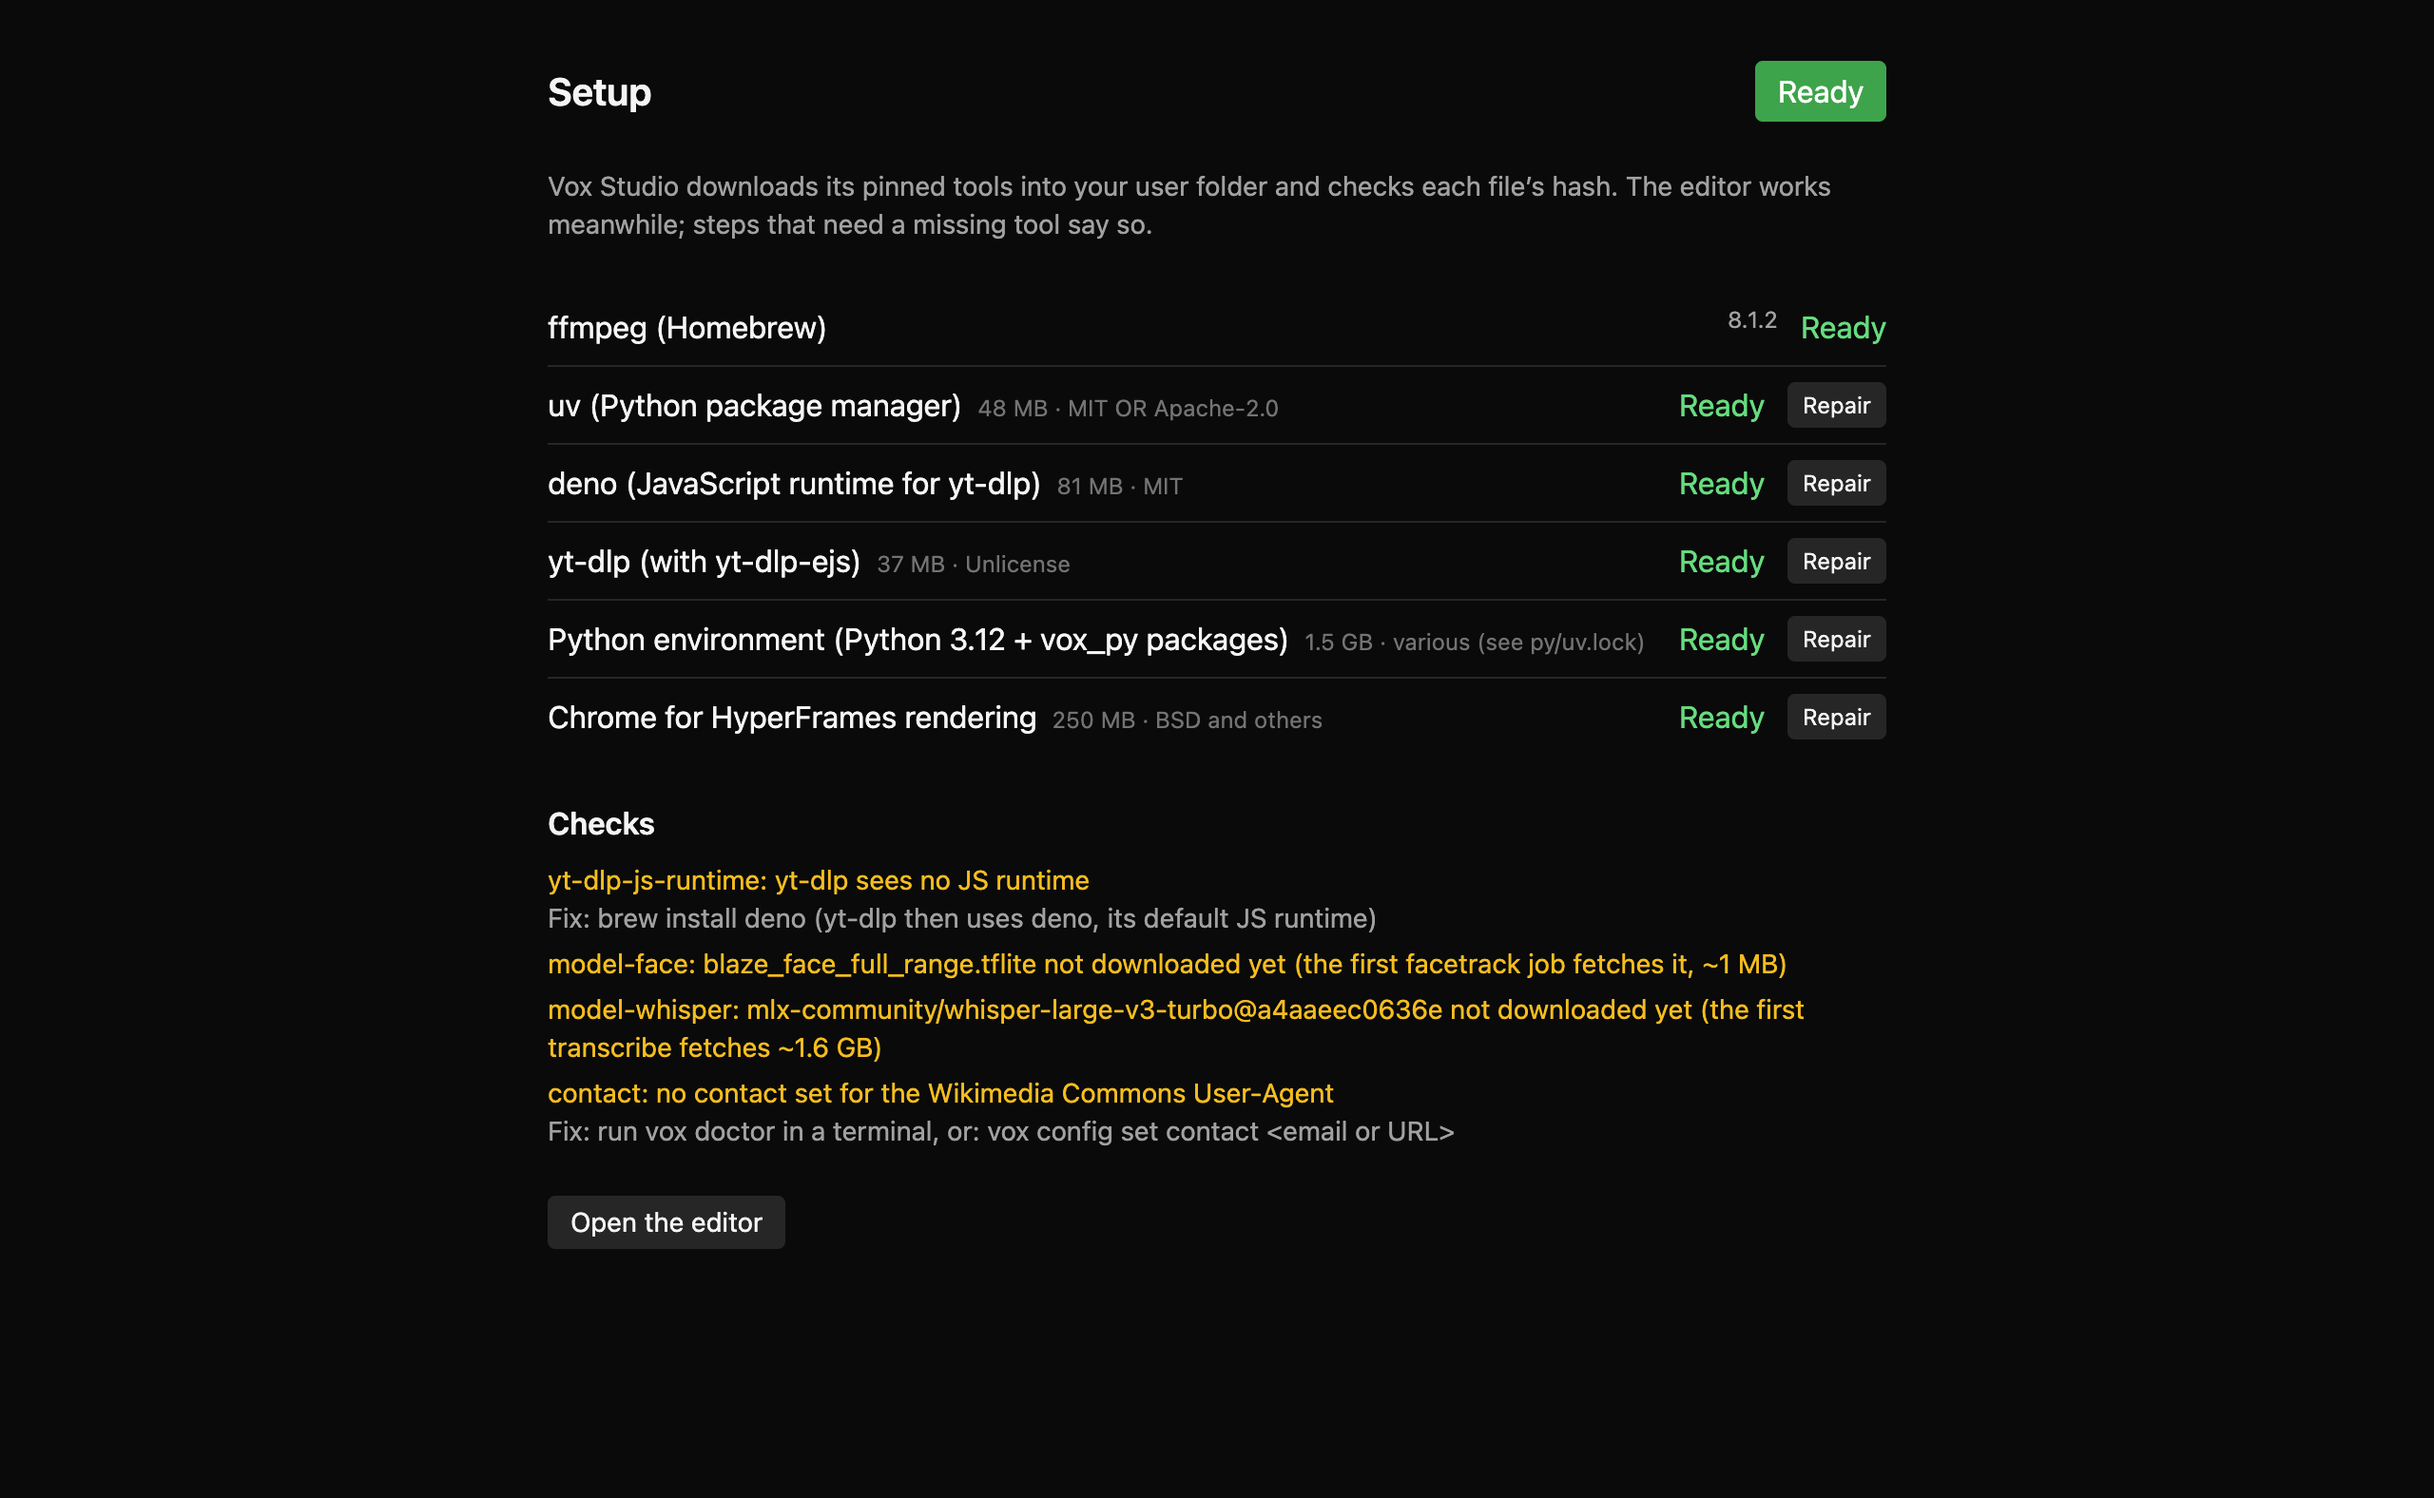
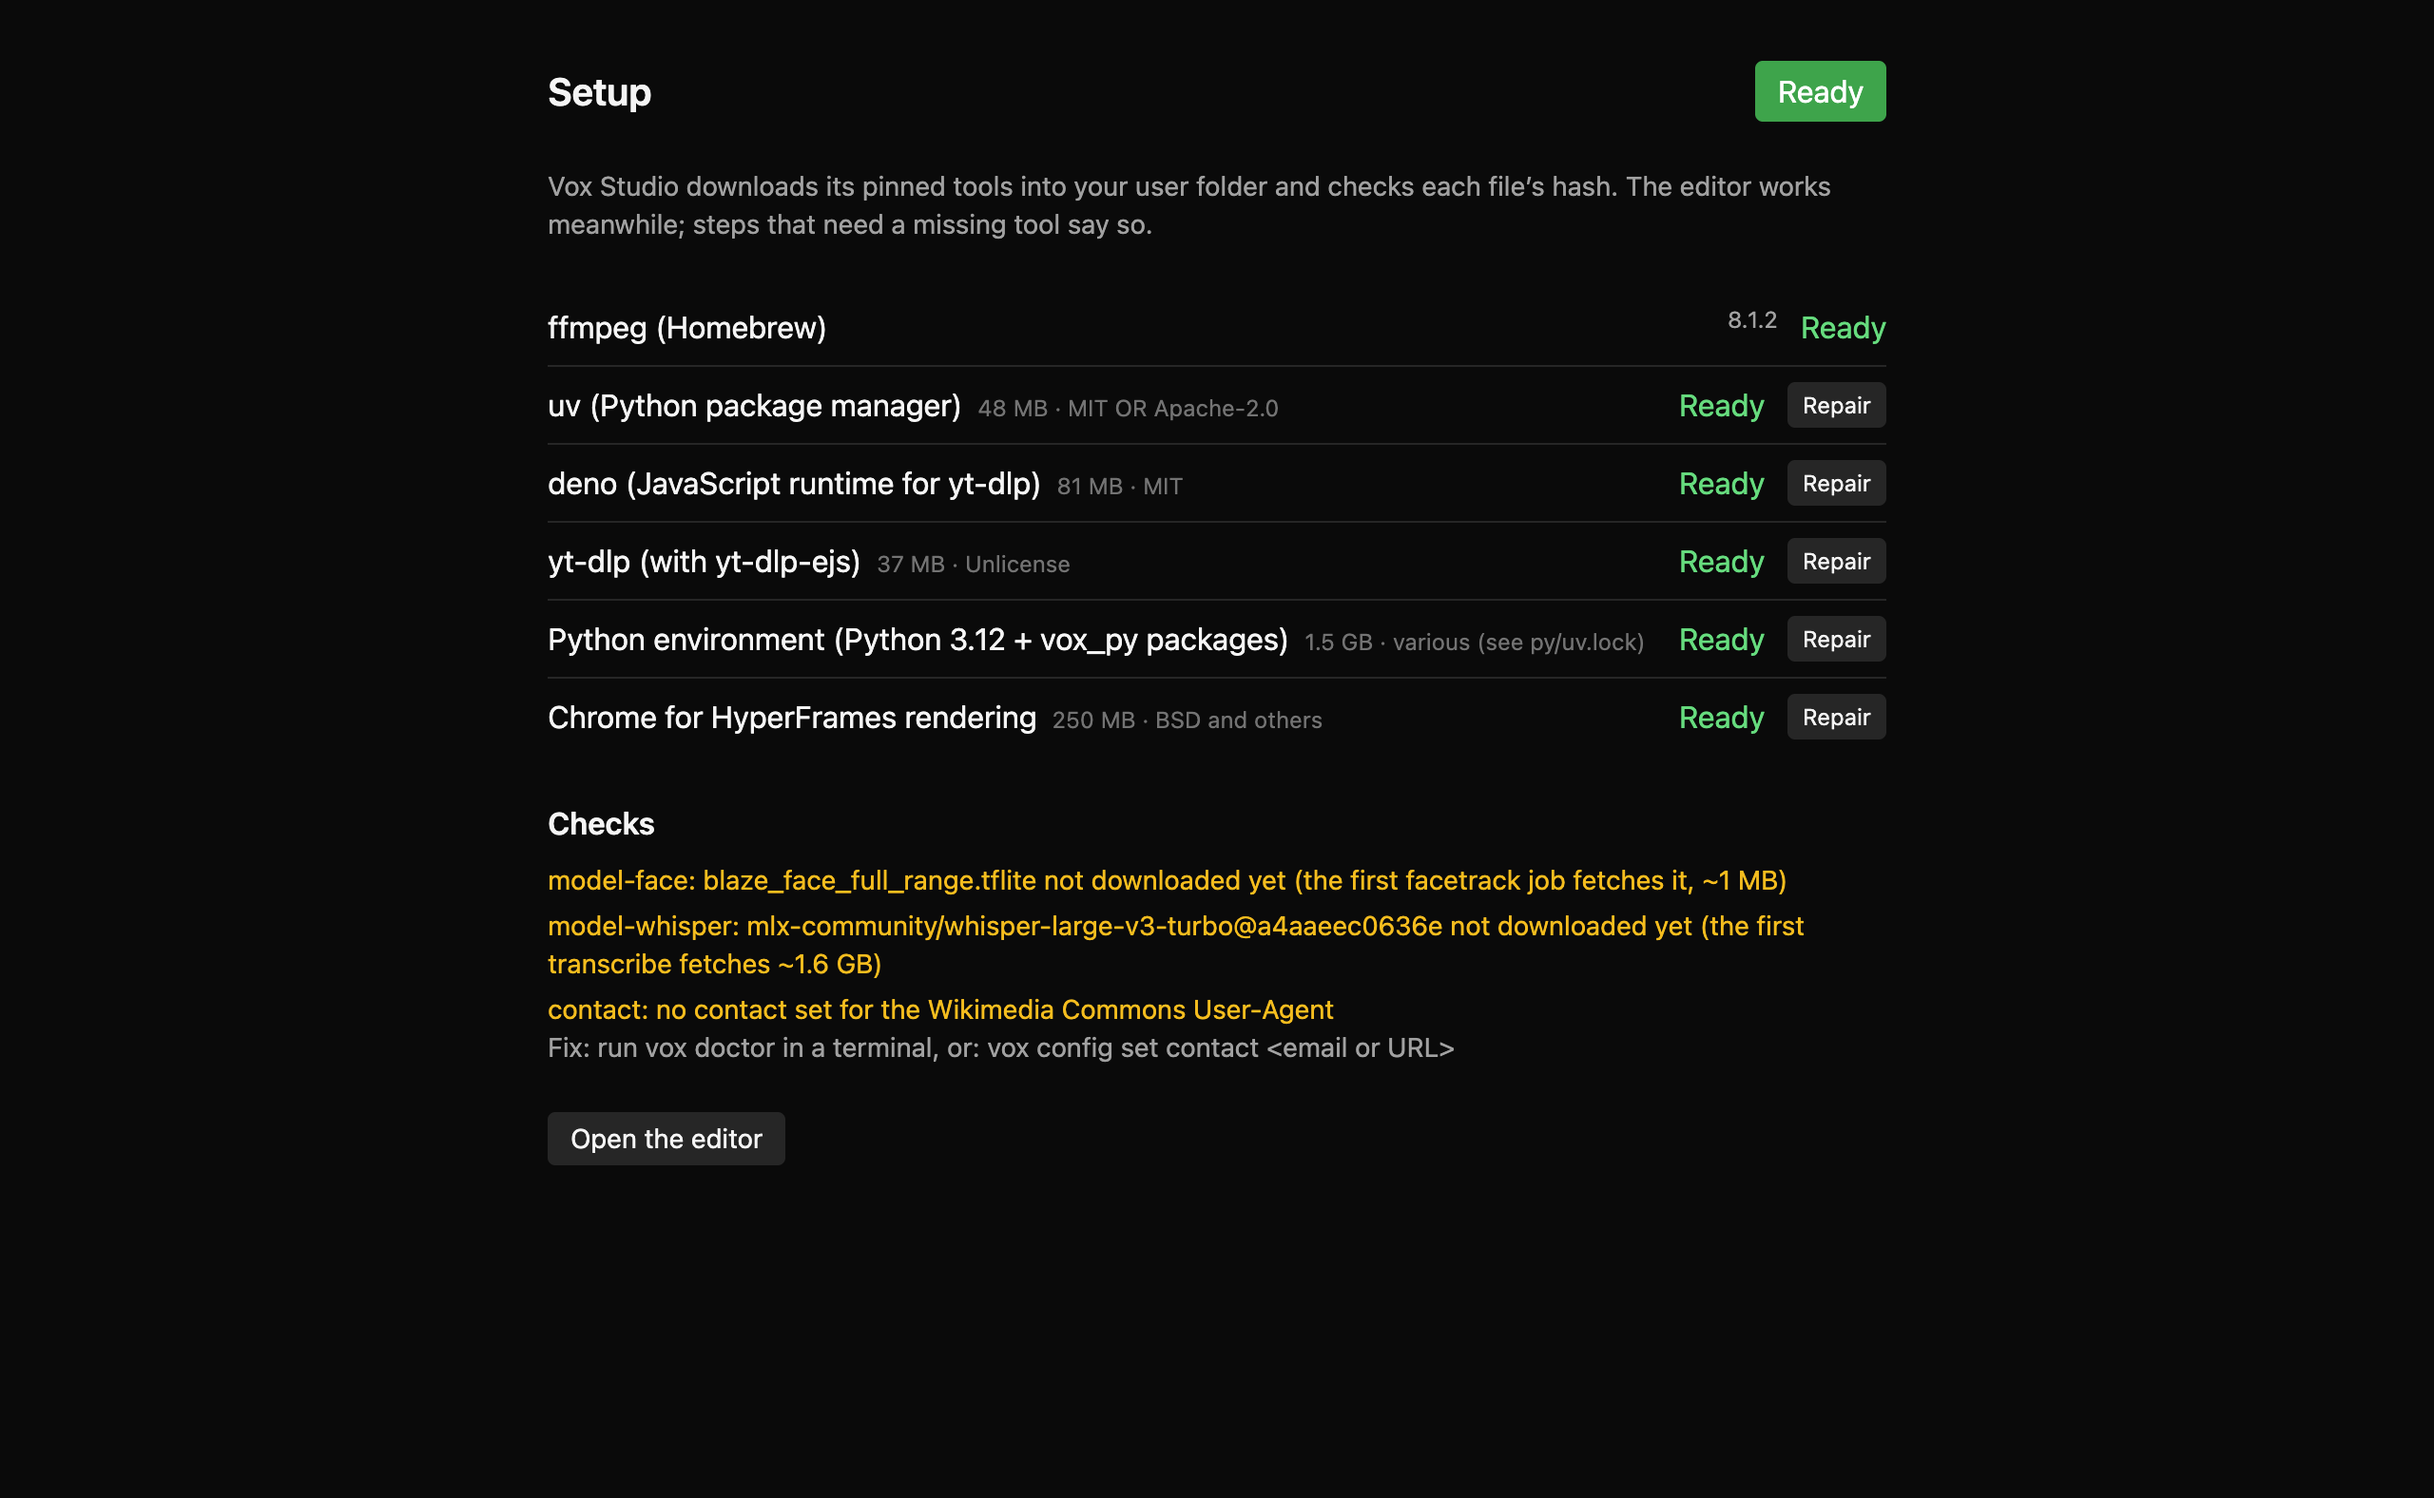
phase-09: verify after merging main (search hygiene test, clean-install probe, evidence), phase log

Changed region(s): [[0.2188, 0.5596, 0.75, 0.8395]]

diff --git a/apps/desktop/test/clean-install.slow.test.ts b/apps/desktop/test/clean-install.slow.test.ts
@@ -113,7 +113,9 @@ describe('clean install from the quarantined .dmg (D-16)', () => {
             new Promise<string>((r) => setTimeout(() => r('status: no answer in 60 s'), 60_000)),
           ]),
         );
-        rec('setup not ready', `${probe}\n${a.stderr().slice(-3000)}`);
+        // what the doctor is still waiting on (child processes under the temp folder)
+        const procs = spawnSync('/usr/bin/pgrep', ['-fl', root], { encoding: 'utf8' }).stdout;
+        rec('setup not ready', `${probe}\n${procs}\n${a.stderr().slice(-3000)}`);
         throw e;
       });
       for (const id of ['uv', 'deno', 'yt-dlp', 'python-env', 'chrome', 'ffmpeg'])

diff --git a/packages/engine/test/geo/search.test.ts b/packages/engine/test/geo/search.test.ts
@@ -106,6 +106,7 @@ describe('module hygiene', () => {
   test('search.ts stays pure: it imports nothing from errors.ts or api.ts (phase 03 wires it)', () => {
     const src = readFileSync(new URL('../../src/geo/search.ts', import.meta.url), 'utf8');
     const imports = [...src.matchAll(/^import .* from '([^']+)'/gm)].map((m) => m[1]);
-    expect(imports).toEqual(['node:fs']);
+    // resources.ts (packaged data folder, phase 09) imports only node builtins
+    expect(imports).toEqual(['node:fs', 'node:path', '../resources.ts']);
   });
 });

diff --git a/plan/log/phase-09.md b/plan/log/phase-09.md
@@ -1,22 +1,98 @@
 # Phase 09 — App: first-run setup + `.dmg`
 
-Status: in progress (started 2026-10-11 15:07), branch `phase/09-app-setup-dmg`, worktree `.worktrees/phase-09`
+| Field | Value |
+|---|---|
+| Status | done (optional MANUAL STEPS 7 and 9b open; they do not block merge) |
+| Started · Finished | 2026-10-11 15:07 · 2026-10-11 17:25 |
+| Model | Opus 5.5 · token-budget run (one agent, no subagents) |
+| Machine | Apple M5, macOS 27.0.1 |
+| Branch | phase/09-app-setup-dmg |
 
-## Plan (phase run)
-Token-budget run: one agent, no subagents; the step-7 review is a self-review (token budget).
-1. Engine: resource dirs for packaged builds (data, vox runtime, node module base) + `vox doctor`
-   lock-hash check; CLI `self-test --json`, `--version`, resource lookup when bundled.
-2. Setup wiring in the engine host: `setup.status/install/updateYtDlp`, `setup.progress`, Chrome
-   delegate (bundled HyperFrames CLI), `<tools>/bin` links, launch-time py-env resync, doctor →
-   "Ready", update check on launch (repo `aliefauzan/open-editor`).
-3. Setup screen + doctor view + update banner (renderer); menu "Install `vox` command".
-4. Packaging: CLI + engine-host bundles, resources (R1 table), bundled uv (pinned, verified),
-   fuses (S27), drop default_app.asar, size.
-5. Slow tests: packaging (self-test, fuses, S31 bundle hash), clean-install (quarantine, spctl,
-   ffmpeg-missing view, fake brew + fixture components → Ready), install-command.
-6. README install + clone sections; review; verify; log; merge.
-Test order: setup handlers → stage table → doctor lock hash → self-test → install-command →
-renderer setup view → packaging → clean-install.
+## Pre-check
+Prerequisites 05 and 08 are [x] in PROGRESS. The early steps (D-19, `early/s1-setup-modules`, below) were merged. Electron 44.7.0, electron-builder 26.15.3, pnpm 12, uv 0.11.19 (pinned).
+
+## Plan summary
+1. Engine: resource dirs for packaged builds (data, vox runtime, node module base, py project), `vox doctor` lock-hash check; CLI `self-test --json` and resource lookup when bundled.
+2. Engine host: `setup.status/install/updateYtDlp`, `setup.progress`, Chrome delegate (bundled HyperFrames CLI), `<tools>/bin` links, launch-time py-env resync, background doctor, "Ready", update check on launch.
+3. Renderer: setup screen, doctor view, update banner. Main: menu "Install vox Command…".
+4. Packaging: staged Resources (R1 table), bundled CLI, pinned uv, fuses (S27), no default_app.asar.
+5. Slow tests: packaging (self-test, fuses, install link, S31) and clean-install (D-16).
+6. README, self-review, verify, log, merge.
+Test order: setup handlers → stage table → doctor lock hash → self-test → install command → setup view → packaging → clean-install.
+
+## Checklist
+- [x] 1 setup tests (early steps, D-19) + app-setup tests (status, doctor, Ready)
+- [x] 2 installers (early steps) + `<tools>/bin` links, Chrome delegate
+- [x] 3 setup screen, doctor view, ffmpeg-missing view with copy commands, "Check again"
+- [x] 4 packaging: Resources staged, CLI bundle, uv pinned and hash-checked (S16), fuses (S27)
+- [x] 5 `vox self-test --json` on the built app
+- [x] 6 update check (early steps; fixture in GitHub's documented Releases shape)
+- [x] 7 "Install vox command": `~/.local/bin` target tested under a temp HOME; `/usr/local/bin` = MANUAL STEP (optional)
+- [x] 8 README install + Homebrew/ffmpeg + clone sections
+- [x] 9 clean-install test (D-16)
+- [ ] 9b MANUAL STEP (optional): Gatekeeper "Open Anyway" screenshots
+
+## Files created / changed
+- Engine: `packages/engine/src/resources.ts` (new: `setResourceDirs`, `dataDir`, `runtimeDir`, `moduleRequire`, `pyProjectDir`), `api.ts`, `py.ts`, `doctor.ts` (python-env-lock check), `geo/search.ts`, `compile/write.ts`, `render/layers.ts`, `styles/validate-dom.ts`; tests `resources.test.ts`, `doctor.test.ts`.
+- CLI: `packages/cli/src/self-test.ts` (new), `main.ts` (`self-test`, `resources` in Io), `package.json` exports; `test/self-test.test.ts`.
+- Engine host: `index.ts`, `handlers.ts`, `app-setup.ts` (new), `packaged.ts` (new), `setup/bins.ts` and `setup/chrome.ts` (new), `setup/manifest.ts` (JSON import), `setup/pyenv.ts` (`--compile-bytecode`), `setup/stages.ts`.
+- Main: `index.ts` (menu, app version, resources), `install-cli.ts` (new), `host.ts`. Shared: `api.ts`, `app-info.ts` (new).
+- Renderer: `Setup.tsx`, `setup-store.ts` (new), `App.tsx`.
+- Build: `src/cli/vox.ts` (new), `scripts/stage-resources.ts` (new), `scripts/build.ts`, `scripts/after-pack.cjs` (new), `electron-builder.yml`, `package.json`; root `package.json` (`dev`, `dist`), `.gitignore`, `.prettierignore`, `eslint.config.js`.
+- Tests: `test/packaging.slow.test.ts`, `test/clean-install.slow.test.ts`, `test/helpers/packaged.ts` (new), `test/main/install-cli.test.ts`, `test/helpers/app.ts`, `test/setup/*`.
+- Docs: `README.md`; evidence `docs/evidence/phase-09/` (clean-install.txt, bundle-unchanged.txt, setup-ffmpeg-missing.png, setup-ready.png).
+
+## Verify results
+Run after `git merge main` (11b), on the merged branch.
+
+| Command | Result | Numbers |
+|---|---|---|
+| `pnpm typecheck` | pass | 0 errors |
+| `pnpm lint` (eslint + prettier) | pass | clean |
+| `pnpm test` | pass | 154 files, 2103 passed, 1 skipped (first run: `framing-provider.local` failed once under load, passed alone and on rerun; `geo/search` hygiene test updated for the `resources.ts` import) |
+| `pnpm dist` | pass | `Vox-Studio-0.0.0-arm64.dmg` 189,359,198 bytes (180.6 MB, bar 300 MB); `.app` ~496 MB |
+| `pnpm -C apps/desktop test:slow` (VOX_SLOW, sequential) | pass | 6 files, 29 tests (packaging 5, clean-install 3, security, engine-host, setup live), 129.7 s |
+| clean-install alone | pass | 3/3, 70.6 s; doctor warning for deno gone (`<tools>/bin` on PATH) |
+| `pnpm -C apps/desktop e2e` | pass | 1 passed |
+| engine slow (render/layers, styles/*, compile contract + caption-preset, export/render) | pass | 15 files, 195 tests |
+
+One earlier full slow run failed "setup reaches Ready" (doctor still running at 420 s) while an orphaned app from an earlier aborted run was alive; after killing it, the test passed alone (70.6 s) and in the full run. The failure probe now also records the processes still running under the temp folder.
+
+## Done when
+| # | Item | Evidence |
+|---|---|---|
+| 1 | `.dmg` < 300 MB; clean-install test passes (quarantine, `spctl` recorded, ffmpeg-missing view, Ready with fixture components) | `.dmg` 180.6 MB; `clean-install.slow.test.ts` 3/3; `docs/evidence/phase-09/clean-install.txt`, `setup-ffmpeg-missing.png`, `setup-ready.png` |
+| 2 | S16, S27, S31 pass; `vox self-test --json` passes on the built app; review clean of CRITICAL/HIGH | S16: setup hash tests + bundled uv hash-checked at build; S27: fuses test; S31: `bundle-unchanged.txt` (0 changed); self-test test; self-review below |
+| 3 | README covers `.dmg` install (both Gatekeeper routes), Homebrew + ffmpeg, clone path | `README.md` "Install from the .dmg", "Homebrew and ffmpeg", "Development" |
+
+## Review findings
+Self-review (token budget): no subagents; one pass with a security focus over the branch diff.
+
+| Agent | Severity | Finding | Fixed? |
+|---|---|---|---|
+| self | MEDIUM | The packaged app accepts `--remote-debugging-port` (a Chromium switch, not the Node inspect fuse). It is local, same-user only; any process that can launch the app as the user can already read its data. Tests use it to drive the app (inspect fuse is off). | accepted, noted |
+| self | LOW | `<tools>/bin` is first on the engine host PATH. It sits inside the user-writable tools folder, the same trust as the tool binaries themselves. | accepted |
+| self | LOW | The `/usr/local/bin` install runs one admin shell command via osascript; both paths are single-quoted with `'` escaped (unit test). | ok |
+| self | — | Bundled uv is the manifest pin, SHA-256 checked at build (S16); update link goes through the openExternal allowlist; update check is https-only. | ok |
+| self | — | No secrets, personal paths or emails in committed files (evidence paths replaced by `<tmp>`; grep clean). | ok |
+
+No CRITICAL/HIGH findings.
+
+## Deviations
+- D-41: packaged resource layout and setup "Ready" rules (resource dirs API, hoisted HyperFrames node_modules copy, manifest bundled as JSON, background doctor, `--compile-bytecode`, `<tools>/bin` PATH prefix, managed Chrome headless shell only, CDP launch in tests).
+
+## MANUAL STEPS
+1. (optional, step 7) Test the `/usr/local/bin` target of "Install vox Command…" (admin prompt). Copied to plan/TODO.md.
+2. (optional, step 9b) Open the built app once through "Open Anyway" on your own account; take screenshots of the Gatekeeper dialog for the README. Copied to plan/TODO.md.
+
+## Handoff notes
+- `pnpm dist` builds `apps/desktop/dist/Vox-Studio-<version>-arm64.dmg` (ad-hoc signed, not notarized). Staged Resources go to `apps/desktop/out-resources/` (git-ignored); downloads are cached in `apps/desktop/cache/`.
+- The packaged app has the Node inspect fuse off. Drive it with `test/helpers/packaged.ts` `launchPackaged()` (remote debugging port + CDP), not Playwright's Electron launcher.
+- Engine code that reads bundled files must go through `packages/engine/src/resources.ts` (`dataDir()`, `runtimeDir()`, `moduleRequire()`, `pyProjectDir()`); `import.meta.url` paths break in the bundle.
+- New HyperFrames dependencies are picked up by `layoutModules()` in `scripts/stage-resources.ts`; check `vox self-test --json` on the built app after a bump.
+- `VOX_UPDATE_REPO=''` turns the update check off (tests); the default repo is `aliefauzan/open-editor`.
+- 10b GATE 5 reruns `pnpm -C apps/desktop test:slow -- clean-install` with the full editor (D-16). The doctor on a fresh tools folder takes ~1 min (Python import check).
+- `framing-provider.local.test.ts` failed once in the full `pnpm test` run and passed alone (load-dependent; not touched by this phase).
 
 ## Early steps (D-19) — s1-setup-modules
 Branch `early/s1-setup-modules`. Pure Node modules in `apps/desktop/src/engine-host/setup/`, no Electron, no engine imports (own `SetupError`; map `code` to `VoxError` when wiring).
